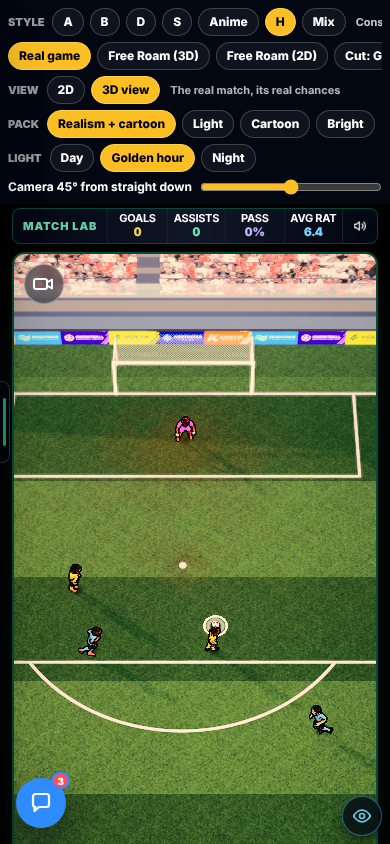
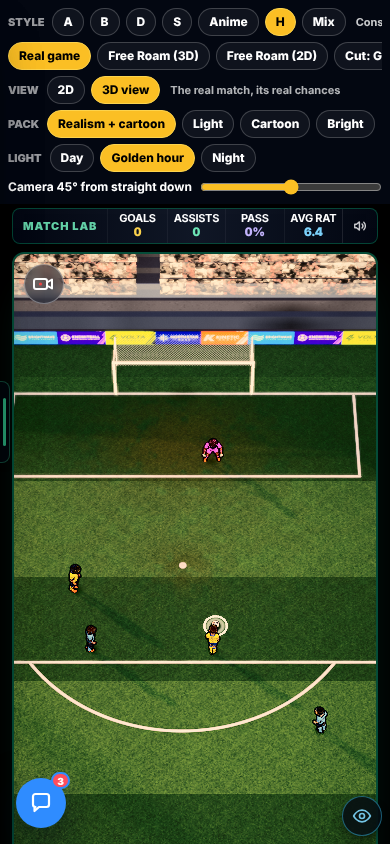
RBD admin lookover A findings; chat bubble also steers clear of titles, text and pictures and can use the right edge; lab pill rows wrap on a computer
Claude-Session: https://claude.ai/code/session_016A37hskL16Hka4FUQjF4xC

diff --git a/components/teamRoom/ChatBubble.tsx b/components/teamRoom/ChatBubble.tsx
@@ -25,7 +25,9 @@ const ADMIN_URLS = ADMIN_PAGES.map((p) => p.url);
 const OPEN_KEY = "kib-team-pop";
 const SIZE = 50;
 const TRY = [16, 80, 144, 208, 272];
-const BUSY = "button, a, input, select, textarea, canvas, [role='button'], [data-tour]";
+// Never on a control, and never on words or pictures either (UI lookover, 19 Oct
+// 2026: it covered titles, table rows and notes on eight admin pages).
+const BUSY = "button, a, input, select, textarea, canvas, img, svg, video, h1, h2, h3, h4, p, label, li, td, th, [role='button'], [data-tour]";
 
 export default function ChatBubble() {
   const path = usePathname() ?? "/";
@@ -53,9 +55,11 @@ function Bubble({ path }: { path: string }) {
     // The admin side menu fills the left edge on a computer: start just right of it.
     const side = document.querySelector(".ash-side")?.getBoundingClientRect();
     const xs = side && side.right > 0 && side.left >= 0 && side.width < window.innerWidth / 2 ? [side.right + 16, 16] : [16];
+    // Then the right edge, above the page guide's eye (bottom-right).
+    xs.push(window.innerWidth - SIZE - 16);
     let spot = { x: xs[0], b: TRY[0] };
     search: for (const lx of xs) {
-      for (const b of TRY) {
+      for (const b of (lx > window.innerWidth / 2 ? TRY.slice(1) : TRY)) {
         const cx = lx + SIZE / 2, cy = window.innerHeight - b - SIZE / 2;
         const hits = [-14, 0, 14].flatMap((d) => document.elementsFromPoint(cx + d, cy + d));
         if (!hits.some((h) => h.closest(BUSY) && !h.closest(".tr-vars"))) { spot = { x: lx, b }; break search; }

diff --git a/app/star-sound-lab-dev/page.tsx b/app/star-sound-lab-dev/page.tsx
@@ -283,7 +283,7 @@ export default function SoundLabPage() {
       </p>
 
       <div className="sticky top-0 z-10 -mx-4 mt-3 border-b border-white/10 bg-slate-950/95 px-4 py-2 backdrop-blur">
-        <div className="flex gap-2 overflow-x-auto pb-1">
+        <div className="flex gap-2 overflow-x-auto pb-1 lg:flex-wrap lg:overflow-visible">
           {LAB_EVENTS.map((e) => (
             <button key={e.id} onClick={() => pickEvent(e.id)}
               className={`h-11 shrink-0 rounded-full px-3 text-sm font-black ${e.id === ev.id ? "bg-emerald-500 text-slate-950" : "bg-white/10 text-white"}`}>

diff --git a/app/star-vfx-lab-dev/page.tsx b/app/star-vfx-lab-dev/page.tsx
@@ -238,7 +238,7 @@ export default function VfxLabPage() {
       </p>
 
       <div className="sticky top-0 z-10 -mx-4 mt-3 border-b border-white/10 bg-slate-950/95 px-4 py-2 backdrop-blur">
-        <div className="flex gap-2 overflow-x-auto pb-1">
+        <div className="flex gap-2 overflow-x-auto pb-1 lg:flex-wrap lg:overflow-visible">
           {VFX_EVENTS.map((e) => (
             <button key={e.id} onClick={() => pickEvent(e.id)}
               className={`h-11 shrink-0 rounded-full px-3 text-sm font-black ${e.id === ev.id ? "bg-emerald-500 text-slate-950" : "bg-white/10 text-white"}`}>

diff --git a/docs/handoffs/2026-10-19-ui-lookover/rbd-admin/findings-A.md b/docs/handoffs/2026-10-19-ui-lookover/rbd-admin/findings-A.md
@@ -1,0 +1,21 @@
+# RBD admin lookover A — career, chances, match, labs (19 Oct 2026; seen, 0 page errors)
+
+Not seen: /star-dribble-dev (admin only, signed out); vfx/sound lab Edit panels did not open.
+Closest to the Play Area: Leo's Oct 13 update, Full match, Match radar.
+
+| Page | Verdict | Problems seen |
+|---|---|---|
+| Retirement screens | redesign | ~25 loud orange/yellow/green/brown "▶" bars, no grouping, 380 px column in 1440 px; bottom bar covers the chart inside |
+| Relationship games | tidy-up | Bright green bars + yellow chips, half the screen empty, chips unexplained, small Back |
+| Goal videos | redesign | No title or explanation; tab row jammed at the top edge, wraps ("NEW CHANCE" alone); 380 px pitch in empty space |
+| Media lab | tidy-up | Green sliders, tiny caps labels, dashed boxes, two-column with empty right; team sheet header clips the keeper |
+| Training levels | tidy-up | Dark green page, 450 px column, tiny level text; inside card good |
+| Scenario gallery | tidy-up | Chat bubble covers "11-a-side" title; ADMIN tab covers the kinds list; phone first screen mostly empty green |
+| Infinite Highlights | tidy-up | Opens blank (no pitch until Next); unlabeled numbers in the top bar; Save/Commit pushed below the pitch |
+| Leo's Oct 13 update | good | Yellow New/Old buttons (Play Area uses blue); long description text per row |
+| Full match | good | Tiny 2D/3D/Radar text and "Watch only" box |
+| Match radar | good | Mini-pitch leaves a big gap; tiny event text; Run button below the fold |
+| First-person dribble | not seen | Plain "Admin only" with no sign-in button |
+| Dribble on a stick | tidy-up | Instructions not in a card; "Loading the real squads…" >10 s |
+| Visual effects lab | tidy-up | 7,663 px; emoji pill row cut off at right; stars/Pick/note/Edit repeated per card; bubble covers notes |
+| Sound lab | tidy-up | 3,705 px; same repeated rows; pill row cut off; bubble covers a card |
